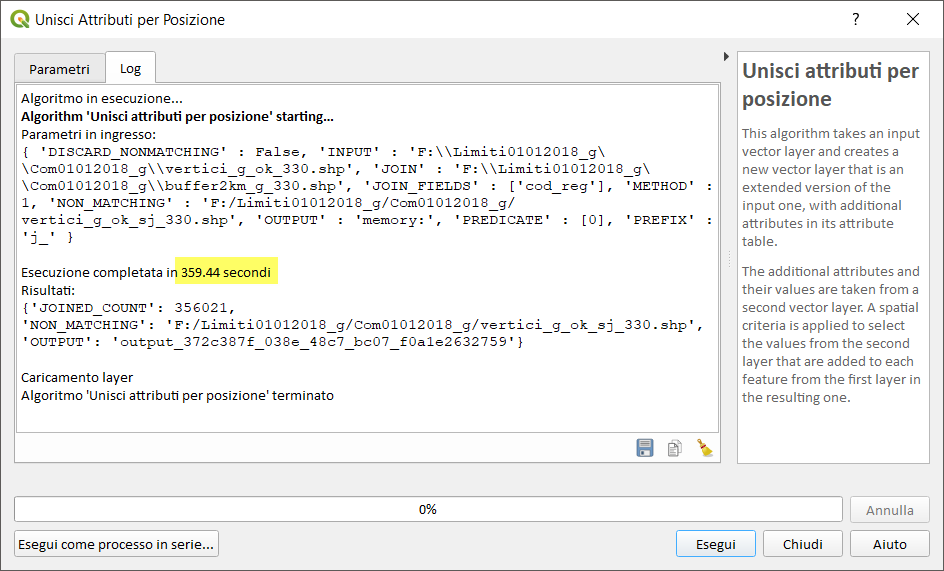
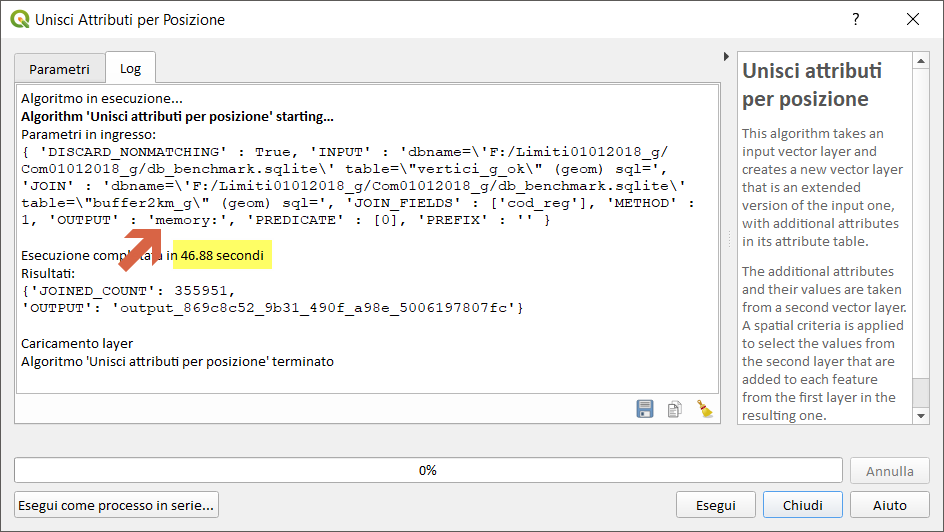
add ultima prova

diff --git a/prove/spatial_join.md b/prove/spatial_join.md
@@ -1,0 +1,175 @@
+# spatial join - attibuti per posizione (LZ50)
+
+**dataset:** db sqlite con spatialindex tabella _vertici_g_ok_ e _buffer_2km_g_
+
+<!-- TOC -->
+
+- [spatial join - attibuti per posizione (LZ50)](#spatial-join---attibuti-per-posizione-lz50)
+    - [QGIS 2.18.24](#qgis-21824)
+    - [QGIS 3.2.3](#qgis-323)
+    - [QGIS 3.3 master](#qgis-33-master)
+    - [SpatiaLite GUI 2.10](#spatialite-gui-210)
+    - [PostgreSQL 9.3 / PostGIS 2.2.3 / pgAdmin 3](#postgresql-93--postgis-223--pgadmin-3)
+    - [mapshaper](#mapshaper)
+    - [R + RStudio](#r--rstudio)
+    - [RISULTATI (LZ50) - spatial join - attibuti per posizione](#risultati-lz50---spatial-join---attibuti-per-posizione)
+    - [Osservazioni finali:](#osservazioni-finali)
+
+<!-- /TOC -->
+
+## QGIS 2.18.24
+
+![](../img/qgis21824_info.png)
+
+![](../img/spatial_j/qgis21824_01.png)
+
+Creando un layer temporaneo in memoria:
+
+![](../img/spatial_j/qgis21824_02.png)
+
+
+![](../img/spatial_j/qgis21824_03.png)
+
+![](../img/spatial_j/qgis21824_04.png)
+
+-->[torna su](#spatial-join---attibuti-per-posizione-lz50)
+
+## QGIS 3.2.3
+
+![](../img/qgis323_info.png)
+
+![](../img/spatial_j/qgis323_01.png)
+
+Creando un layer temporaneo in memoria:
+
+![](../img/spatial_j/qgis323_02.png)
+
+Salvando in un file shp:
+
+![](../img/spatial_j/qgis323_03.png)
+
+![](../img/spatial_j/qgis323_04.png)
+
+-->[torna su](#conta-i-punti-nel-poligono-lz50)
+
+## QGIS 3.3 master
+
+![](../img/qgis33_master_info.png)
+
+NB: Il debug rallenta le prestazioni!!!
+
+![](../img/spatial_j/qgis330_01.png)
+
+Creando un layer temporaneo in memoria:
+
+![](../img/spatial_j/qgis330_02.png)
+
+Salvando in un file shp:
+
+![](../img/spatial_j/qgis330_03.png)
+
+![](../img/spatial_j/qgis330_04.png)
+
+-->[torna su](#conta-i-punti-nel-poligono-lz50)
+
+## SpatiaLite GUI 2.10
+
+![](../img/spatialite_gui_210_info.png)
+
+Creando una tabella:
+
+```
+-- creo geotabella vertici_g_ok2_sj per spatial join - trasferire 'cod_reg'
+CREATE TABLE "vertici_g_ok2_sj" AS
+SELECT b.cod_reg AS cod_reg, v.geom AS geom
+FROM "buffer2km_g" b JOIN "vertici_g_ok2" v ON St_Intersects (b.geom, v.geom)
+WHERE v.out_pk IN (
+SELECT rowid FROM SpatialIndex WHERE f_table_name = 'vertici_g_ok2'
+AND search_frame = b.geom);
+SELECT RecoverGeometryColumn('vertici_g_ok2_sj','geom',32632,'POINT','XY');
+```
+![](../img/spatial_j/sl_210_01.png)
+
+Creando una query in memoria:
+
+```
+-- creo query in memoria
+SELECT b.cod_reg AS cod_reg, v.geom AS geom
+FROM "buffer2km_g" b JOIN "vertici_g_ok2" v ON St_Intersects (b.geom, v.geom)
+WHERE v.out_pk IN (
+SELECT rowid FROM SpatialIndex WHERE f_table_name = 'vertici_g_ok2'
+AND search_frame = b.geom);
+```
+
+![](../img/spatial_j/sl_210_02.png)
+
+-->[torna su](#conta-i-punti-nel-poligono-lz50)
+
+## PostgreSQL 9.3 / PostGIS 2.2.3 / pgAdmin 3
+
+![](../img/pgAmin3_info.png)
+
+Creo tabella:
+
+```
+-- creo geotabella vertici_g_ok_sj per spatial join
+CREATE TABLE vertici_g_ok_sj AS
+SELECT b.cod_reg, v.geom AS geom
+FROM buffer2km_g b join vertici_g_ok v on st_intersects(b.geom,v.geom);
+```
+![](../img/spatial_j/pg_223_01.png)
+
+Creo query in memoria:
+
+```
+-- creo query in memoria
+SELECT b.cod_reg, v.geom AS geom
+FROM buffer2km_g b join vertici_g_ok v on st_intersects(b.geom,v.geom);
+```
+
+![](../img/spatial_j/pg_223_02.png)
+
+-->[torna su](#conta-i-punti-nel-poligono-lz50)
+
+## mapshaper
+
+![](../img/mapshaper_info.png)
+
+```
+time node  --max-old-space-size=4192 `which mapshaper` encoding=utf-8 vertici_g_ok_330.shp -join dissolto_g_reg_330.shp calc= fields=cod_reg -o vertici_g_ok_sjoin.shp
+```
+
+![](../img/spatial_j/mapshaper_01.png)
+
+**NB:** i conteggi sono diversi rispetto agli altri software!!!
+
+-->[torna su](#conta-i-punti-nel-poligono-lz50)
+
+## R + RStudio
+
+![](../img/rstudio_info.png)
+
+```
+da fare!!!
+```
+![](../img/spatial_j/r_01.png)
+
+## RISULTATI (LZ50) - spatial join - attibuti per posizione
+
+file/table [sec]|memoria [sec]|software GIS
+:---------:|:---------:|---------
++1432      |   1432    |QGIS 2.18.24
+57         |   34      |QGIS 3.2.3
+60         |   47      |QGIS 3.3 master con debug
+513        |     1     |SpatiaLite_GUI 2.10
+530        |   26      |pgAdmin 3 con spatialIndex
+29         |   `-`     |mapshaper
+???        |   ???     |R + RStudio
+
+`-` prova non possibile! ??? da fare
+
+[torna su](#conta-i-punti-nel-poligono-lz50)
+
+## Osservazioni finali:
+
+In QGIS l'uso dei _file temporanei_ (in memoria) velocizza di parecchio la generazione dell'output di alcuni processing.
